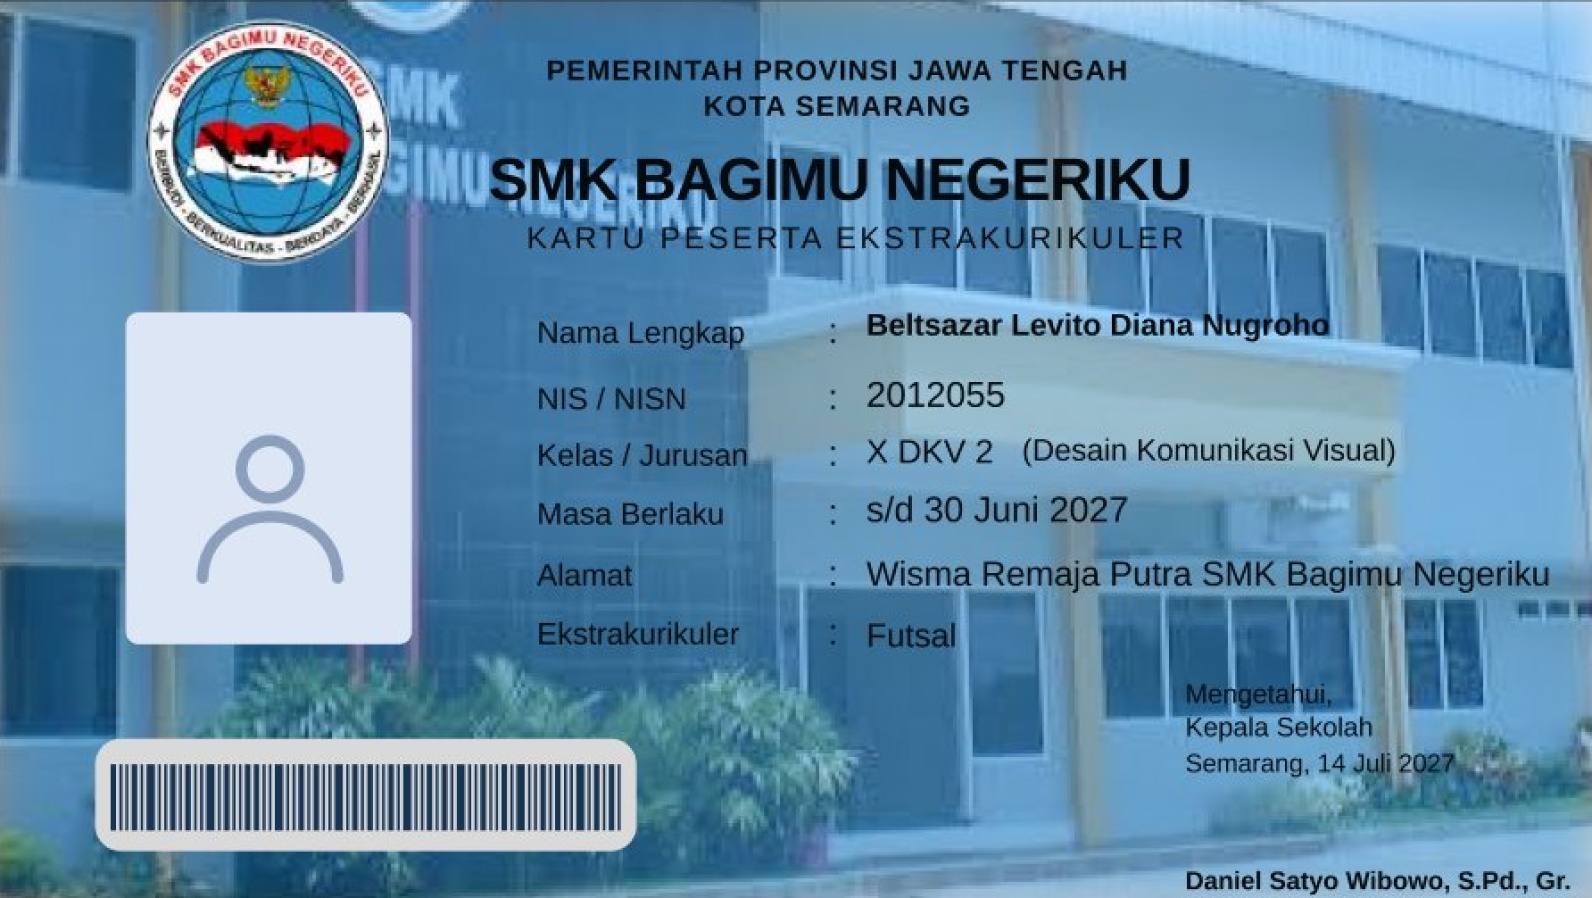
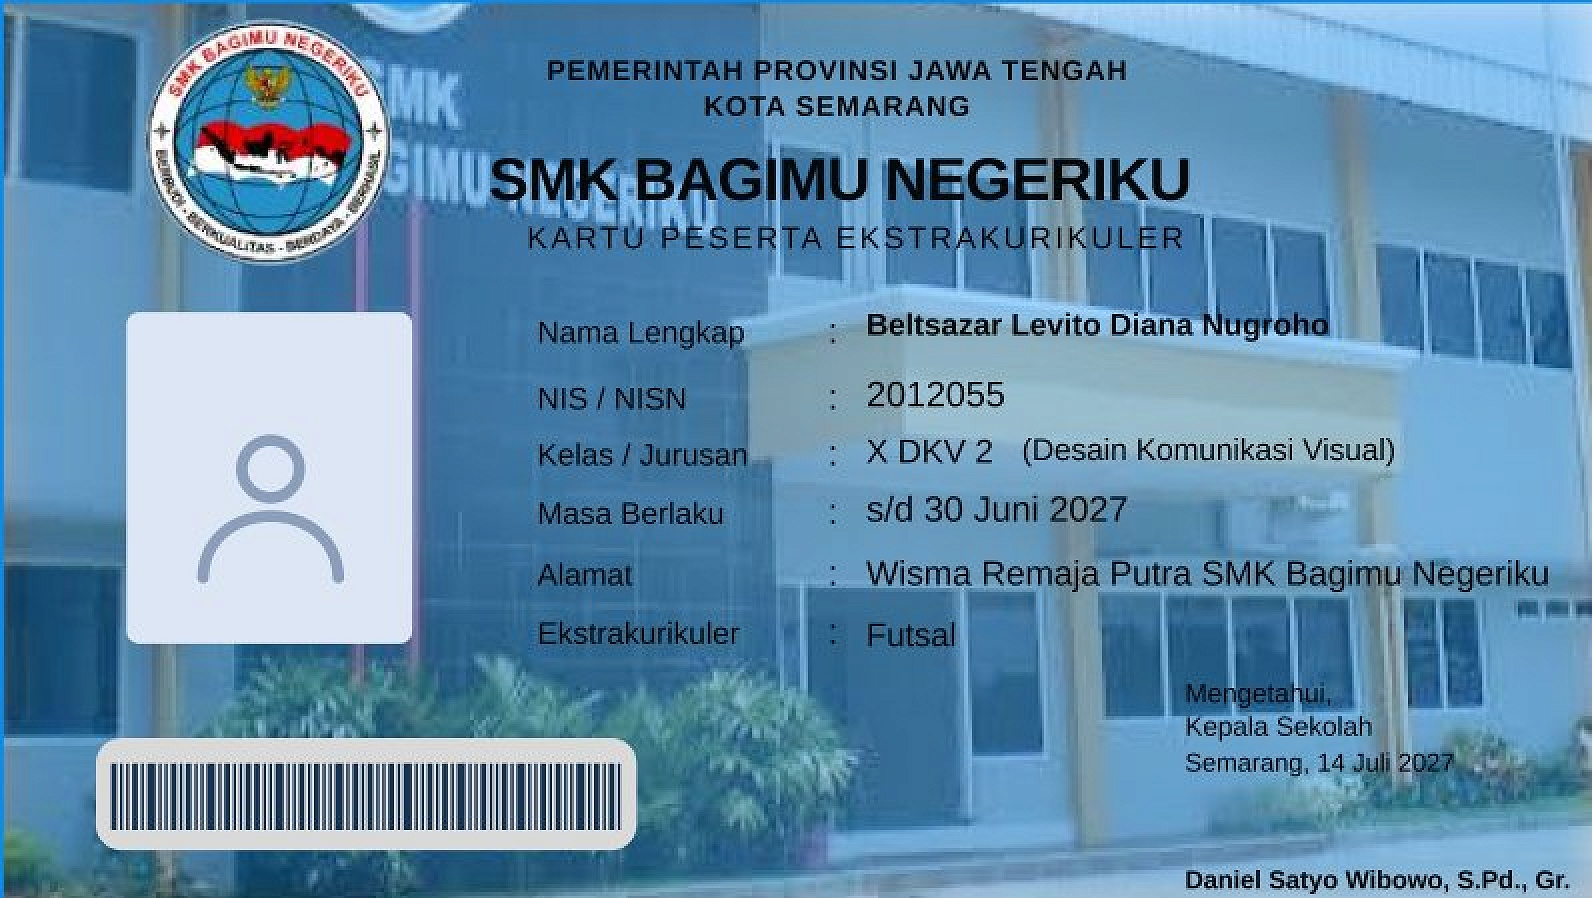
feat(siswa): tingkatkan ketajaman gambar kartu ke resolusi HD dengan rendering optimal

diff --git a/resources/views/siswa/kartu-public.blade.php b/resources/views/siswa/kartu-public.blade.php
@@ -28,7 +28,7 @@
             aspect-ratio: 796 / 449;
             background-color: #ffffff;
             background-image: url('{{ asset('images/kartu-clean-bg.jpg') }}?v={{ filemtime(public_path('images/kartu-clean-bg.jpg')) }}');
-            background-size: cover;
+            background-size: 100% 100%;
             background-repeat: no-repeat;
             background-position: center;
             border-radius: 2.2cqw;
@@ -37,6 +37,10 @@
             color: #0f172a;
             user-select: none;
             text-align: left;
+            image-rendering: -webkit-optimize-contrast;
+            image-rendering: high-quality;
+            transform: translateZ(0);
+            -webkit-backface-visibility: hidden;
         }
 
 

diff --git a/resources/views/siswa/sukses.blade.php b/resources/views/siswa/sukses.blade.php
@@ -18,7 +18,7 @@
         aspect-ratio: 796 / 449;
         background-color: #ffffff;
         background-image: url('{{ asset('images/kartu-clean-bg.jpg') }}?v={{ filemtime(public_path('images/kartu-clean-bg.jpg')) }}');
-        background-size: cover;
+        background-size: 100% 100%;
         background-repeat: no-repeat;
         background-position: center;
         border-radius: 2.2cqw;
@@ -27,6 +27,10 @@
         color: #0f172a;
         user-select: none;
         text-align: left;
+        image-rendering: -webkit-optimize-contrast;
+        image-rendering: high-quality;
+        transform: translateZ(0);
+        -webkit-backface-visibility: hidden;
     }
 
 
